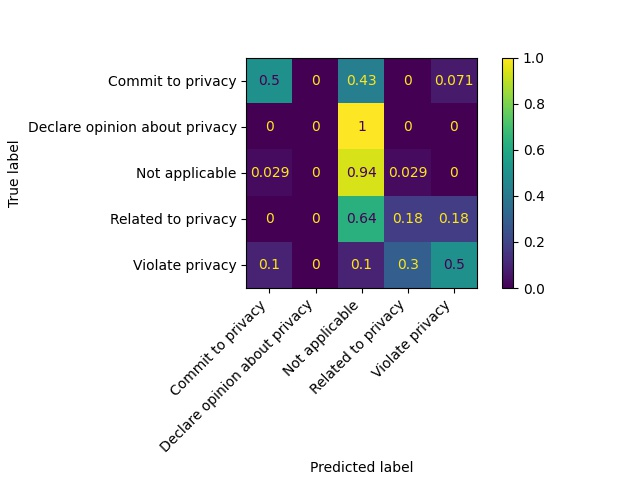
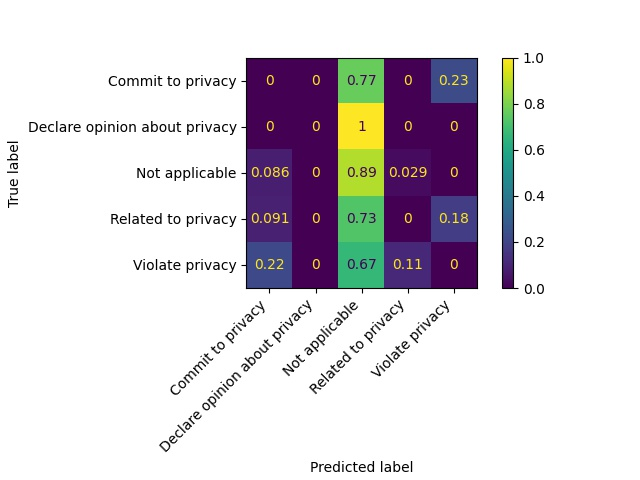
correcting bigram approach

diff --git a/AIclassifier.py b/AIclassifier.py
@@ -40,7 +40,7 @@ def format_sentVector_to_SparseMatrix(vectors_list):
         sparse_vector = [0] * len(words_to_numbers) # vocabulary size cause each word present is a feature
         counts = Counter(sent_vector)
         for index, freq in counts.items():
-            sparse_vector[index] = 1 # freq/len(sent_vector) # DIFFERENT CONFIGURATION POSSIBILITIES
+            sparse_vector[index] = freq/len(sent_vector) # DIFFERENT CONFIGURATION POSSIBILITIES # 1
         if (i == 0): # TO DO: OPTIMIZE, NO NEED TO CHECK THIS EVERY TURN
             matrix_array = [sparse_vector]
         else:
@@ -69,13 +69,13 @@ def create_vectors_list(sents, conversion_dict):
         sent_vector = []
         for token in sent_doc:  
             if token.lower() not in conversion_dict: 
-                sent_tokens_list.append("unk")
-                unk_count += 1
-                #pass
+                #sent_tokens_list.append("unk")
+                #unk_count += 1
+                pass
             else:
                 print(token)
                 sent_tokens_list.append(token.lower())
-            sent_vector = numpy.append(sent_vector, conversion_dict[sent_tokens_list[-1]]) # outside else to go back to considering unk 
+                sent_vector = numpy.append(sent_vector, conversion_dict[sent_tokens_list[-1]]) # outside else to go back to considering unk 
             if len(sent_vector) > 0:
                 sent_vector = sent_vector.astype(int)
         for bigram in sent_bigram:
@@ -96,8 +96,8 @@ def create_vectors_list(sents, conversion_dict):
         
     #print("Unk count:", unk_count)
     #print(vectors_list)
-    return vectors_list
-    #return sent_bigrams_vector
+    #return vectors_list
+    return sent_bigrams_vector
     #return sent_mixed_vector
 
 ####
@@ -115,39 +115,68 @@ train_doc = reconstruct_hyphenated_words(train_doc)
 tokens = [token.text for token in train_doc if not token.is_space if not token.is_punct] # if not token.text in stopwords.words()] 
 # FLAG: As extra parameters think of removing  LITTLE SQUARE, SMTH ELSE AS WELL? 
 
-word_freq = Counter(tokens)
-#print(word_freq)
+corpus_in_bigrams = []
+for i in range(0,len(tokens)-1):
+    corpus_in_bigrams.append(tokens[i]+" "+tokens[i+1])
 
+token_freq = Counter(tokens)
+bigram_freq = Counter(corpus_in_bigrams)
+#print(word_freq)
+print(bigram_freq)
 # FLAG - checked
 
 # Remove words less frequent than  2 (or equal?)
-corpus_with_unk = [word[0] for word in word_freq.items() if int(word[1]) > 2] # < 2 or <= 2
-#print(corpus_with_unk)
+corpus_without_unk = [token[0] for token in token_freq.items() if int(token[1]) > 2] # < 2 or <= 2
+bigrams_filtered_lexicon = [bigram[0] for bigram in bigram_freq.items() if int(bigram[1]) > 1]
+
+print(bigrams_filtered_lexicon)
 
 #### FLAG - REVIEW IF WORD FREQUENCY SHOULD BE COUNTED WITHOUT SPACY TOKENIZATION 
 #  FLAG exclusion of all less or equal to 2 correctly - checked
 # COUNTING REJOINED TRAIN CORPUS x ORIGINAL SENTENCE TRAIN
 
 # Creating dictionary
-words_to_numbers = {}
-number_representation = 0
-for token in corpus_with_unk:
-    words_to_numbers[token] = number_representation
-    number_representation += 1
-words_to_numbers["unk"] = number_representation
+def create_dict(lexicon):
+    tokens_to_numbers = {}
+    number_representation = 0
+    for token in lexicon:
+        tokens_to_numbers[token] = number_representation
+        number_representation += 1
+    tokens_to_numbers["unk"] = number_representation
+    return tokens_to_numbers
 
-# Bigram disctionary
-bigrams_to_numbers = {}
-number_representation = 0
-bigrams_corpus_list = []
-for i in range(0,len(corpus_with_unk)-1):
-    bigrams_corpus_list.append(corpus_with_unk[i]+" "+corpus_with_unk[i+1]) 
-for bigram in bigrams_corpus_list:
-    bigrams_to_numbers[bigram] = number_representation
-    number_representation += 1
 
+# Unigram dictionary
+words_to_numbers = create_dict(corpus_without_unk)
+# Bigram dictionary
+bigrams_to_numbers = create_dict(bigrams_filtered_lexicon)
 print(bigrams_to_numbers)
 
+#print(corpus_in_bigrams)
+#bigrams_corpus_list = []
+#for i in range(0,len(tokens)-1):
+#    if(tokens[i] in words_to_numbers and tokens[i+1] in words_to_numbers):
+#        bigrams_corpus_list.append(tokens[i]+" "+tokens[i+1]) 
+#    elif(tokens[i] in words_to_numbers):
+#        bigrams_corpus_list.append(tokens[i]+" unk") 
+#    elif(tokens[i+1] in words_to_numbers):
+#        bigrams_corpus_list.append("unk "+tokens[i+1]) 
+#    else: 
+#        pass
+#print(bigrams_corpus_list)
+
+
+#bigrams_to_numbers = {}
+#number_representation = 0
+#bigrams_corpus_list = []
+#print(bigrams_corpus_list)
+#for bigram in bigrams_corpus_list:
+#    bigrams_to_numbers[bigram] = number_representation
+#    number_representation += 1
+
+#print(bigrams_to_numbers)
+
+'''
 # Mixed dictionary
 mixed_to_numbers = {}
 number_representation = 0
@@ -175,13 +204,13 @@ print("Length of the dictionary of word representations:",len(words_to_numbers))
 # count frequency before and after removing unknown words - ??? - ASK GABRIEL!!
 # checked that it seems ok
 
-train_vectors_list = create_vectors_list(sents_train, words_to_numbers)
-dev_vectors_list = create_vectors_list(sents_dev, words_to_numbers)
-test_vectors_list = create_vectors_list(sents_test, words_to_numbers)
+#train_vectors_list = create_vectors_list(sents_train, words_to_numbers)
+#dev_vectors_list = create_vectors_list(sents_dev, words_to_numbers)
+#test_vectors_list = create_vectors_list(sents_test, words_to_numbers)
 
-#train_vectors_list = create_vectors_list(sents_train, bigrams_to_numbers)
-#dev_vectors_list = create_vectors_list(sents_dev, bigrams_to_numbers)
-#test_vectors_list = create_vectors_list(sents_test, bigrams_to_numbers)
+train_vectors_list = create_vectors_list(sents_train, bigrams_to_numbers)
+dev_vectors_list = create_vectors_list(sents_dev, bigrams_to_numbers)
+test_vectors_list = create_vectors_list(sents_test, bigrams_to_numbers)
 
 #train_vectors_list = create_vectors_list(sents_train, mixed_to_numbers)
 #dev_vectors_list = create_vectors_list(sents_dev, mixed_to_numbers)
@@ -211,12 +240,12 @@ test_labels_primary = create_labels_array(labels_test)
 
 # Configurations
 # ADABOOST
-#adaclassifier = AdaBoostClassifier(n_estimators=100, learning_rate=0.5) # n_est 25, 50, 75, 100,200, 300 lr 0.5, 1
+adaclassifier = AdaBoostClassifier(n_estimators=100, learning_rate=0.5) # n_est 25, 50, 75, 100,200, 300 lr 0.5, 1
 # LINEAR REGRESSION
 #lin_reg = LinearRegression() # it is not discrete!!
 # RIDGE REGRESSION CLASSIFIER
 #ridge_classifier = RidgeClassifier()
-sgd_classifier = make_pipeline(StandardScaler(),SGDClassifier(max_iter=1000, tol=1e-3))
+#sgd_classifier = make_pipeline(StandardScaler(),SGDClassifier(max_iter=1000, tol=1e-3))
 
 # FLAG - CHECK WHICH CONFIGURATIONS SHOULD BE HERE - checked
 
@@ -244,18 +273,18 @@ sgd_classifier = make_pipeline(StandardScaler(),SGDClassifier(max_iter=1000, tol
 
 
 # Training
-#model = adaclassifier.fit(train_matrix_array, train_labels_primary) 
+model = adaclassifier.fit(train_matrix_array, train_labels_primary) 
 #model = lin_reg.fit(train_matrix_array, train_labels_primary)
 #model = ridge_classifier.fit(train_matrix_array, train_labels_primary)
-model = sgd_classifier.fit(train_matrix_array, train_labels_primary)
+#model = sgd_classifier.fit(train_matrix_array, train_labels_primary)
 
 
-#importances = model.feature_importances_
+importances = model.feature_importances_
 #importances = model_b.feature_importances_
 
-#for i,(token,value) in enumerate(zip(words_to_numbers, importances)):
-#    if (value != 0):
-#	    print('Feature:',token,'Score:',value)
+for i,(token,value) in enumerate(zip(words_to_numbers, importances)):
+    if (value != 0):
+	    print('Feature:',token,'Score:',value)
 
 #print(type(importances))
 #print(sorted(importances))
@@ -276,8 +305,8 @@ model = sgd_classifier.fit(train_matrix_array, train_labels_primary)
 #print(decision)
 
 # Predicting
-#predictions = model.predict(dev_matrix_array)
-predictions = model.predict(test_matrix_array)
+predictions = model.predict(dev_matrix_array)
+#predictions = model.predict(test_matrix_array)
 
 # casually printing results
 for sent, pred in zip(sents_train,predictions):
@@ -291,26 +320,26 @@ pred_list = [pred for pred in predictions]
 labels=[1,3,5,4,2]
 path='output/AI Classifier/1Label_confusion_matrix_NormTrue.jpg'
 display_labels=['Commit to privacy', 'Declare opinion about privacy','Not applicable','Related to privacy','Violate privacy']
-#create_confusion_matrix(dev_list, pred_list, "true", path, labels, display_labels)
-create_confusion_matrix(test_list, pred_list, "true", path, labels, display_labels)
+create_confusion_matrix(dev_list, pred_list, "true", path, labels, display_labels)
+#create_confusion_matrix(test_list, pred_list, "true", path, labels, display_labels)
 path='output/AI Classifier/1Label_confusion_matrix_NonNorm.jpg'
-#create_confusion_matrix(dev_list, pred_list, None, path, labels, display_labels)
-create_confusion_matrix(test_list, pred_list, None, path, labels, display_labels)
+create_confusion_matrix(dev_list, pred_list, None, path, labels, display_labels)
+#create_confusion_matrix(test_list, pred_list, None, path, labels, display_labels)
 
 # FLAG - CHECK IF CONFUSION MATRIX IS CORRECT FOR EVERY LABEL
-path='output/AI Classifier/1labelSGDPredictionsStatsTest.txt'
+#path='output/AI Classifier/1labelSGDPredictionsStatsDev.txt'
 #path='output/AI Classifier/1labelRidgePredictionsStatsDev.txt'
 #path='output/AI Classifier/1labelPredictionsStatsBigram.txt'
-#path='output/AI Classifier/1labelPredictionsStatsDev.txt'
+path='output/AI Classifier/1labelPredictionsStatsDev.txt'
 #path='output/AI Classifier/1labelPredictionsStatsTest.txt'
 os.makedirs(os.path.dirname(path), exist_ok=True)
 with open(path, 'w') as file:
     #print("Performance measures - Unigram Dictionary \n", file=file)
-    print("Performance measures - Unigram Dictionary\n", file=file)
+    print("Performance measures - Bigram Dictionary\n", file=file)
     #print("Performance measures - Bigram Dictionary\n", file=file)
 #write_output_stats_file(path, "Mixed", test_labels_primary, predictions, labels)
-#write_output_stats_file(path, "Dev", dev_labels_primary, predictions, labels)
-write_output_stats_file(path, "Test", test_labels_primary, predictions, labels)
+write_output_stats_file(path, "Dev", dev_labels_primary, predictions, labels)
+#write_output_stats_file(path, "Test", test_labels_primary, predictions, labels)
 
 # TO DO: WRITE PREDICTIONS JSON FILE -> LEARN HOW TO TRANSFORM ADABOOST OUTPUT IN DICT ( LIST OF ({"text":sentence['text'], "label":label}))
 #write_predictions_file("Dev", dev_pred_dict)
@@ -379,3 +408,4 @@ write_output_stats_file(path, "Test", test_labels_primary, predictions, labels)
 
 # REFERENCE
 #Synthetic Minority Oversampling TEchnique, or SMOTE for short. This technique was described by Nitesh Chawla, et al. in their 2002 paper named for the technique titled “SMOTE: Synthetic Minority Over-sampling Technique.”
+'''
